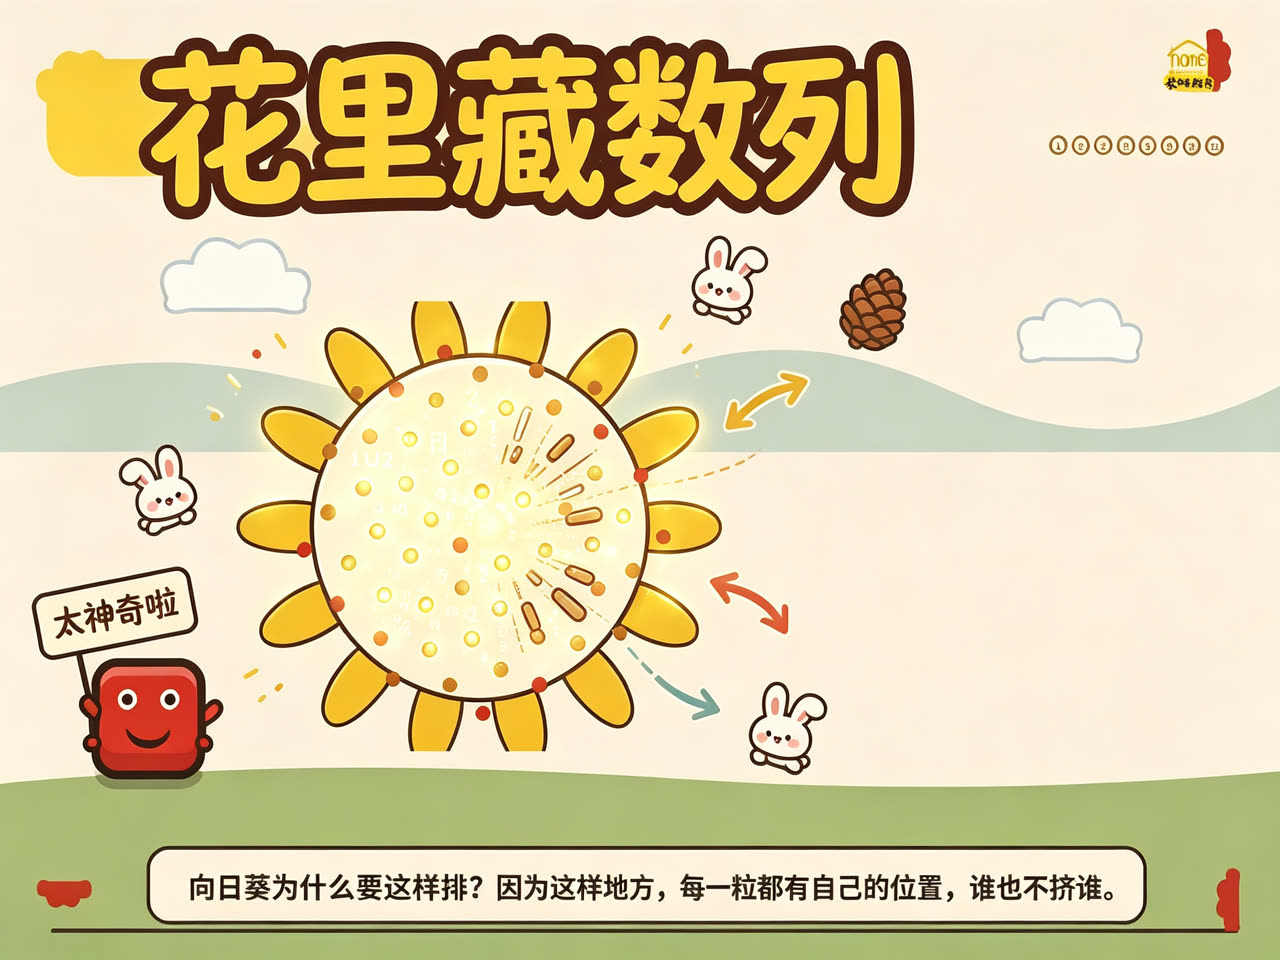
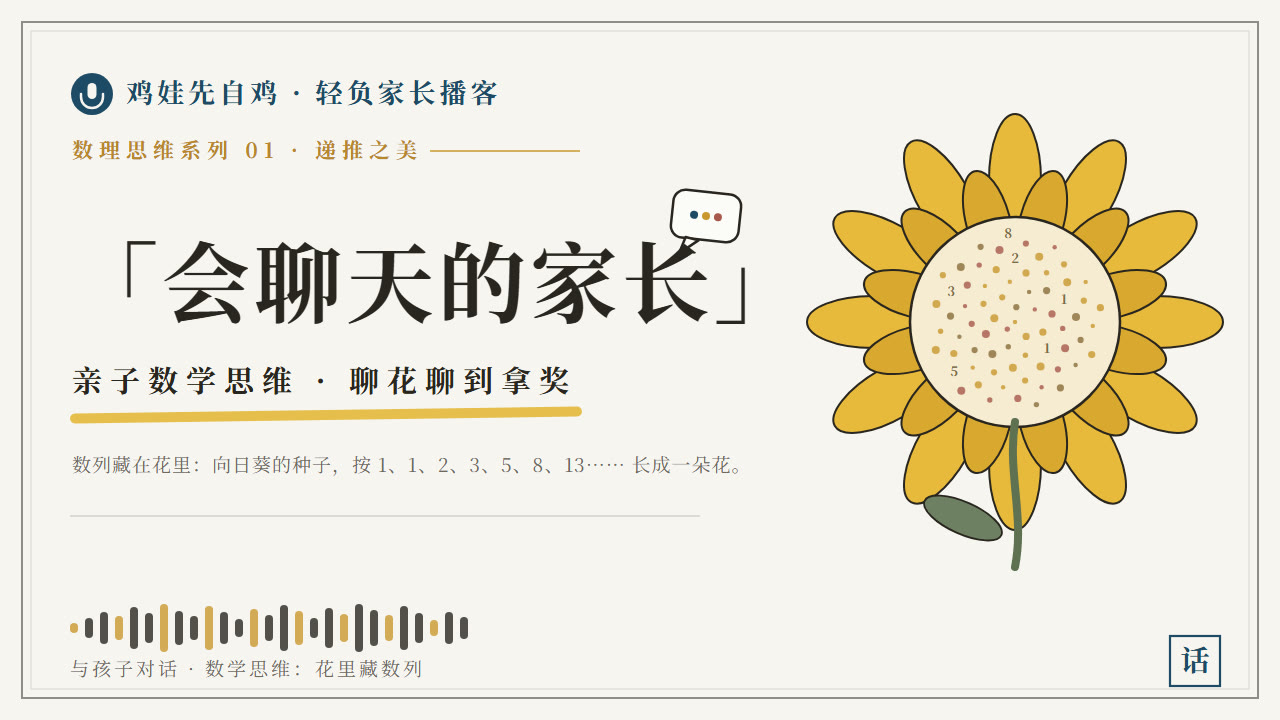
feat(know): 频道整体转向家长播客模式
- 台标换双气泡对话图标（Header + favicon），副标题改'给家长的播客与互动节目'
- 首页/卡片封面换横版家长播客封面（编辑部风：话筒/气泡/向日葵数列/声波/印章），儿童向日葵图只保留为儿童视频 B 站封面
- 详情页 tab 顺序：家长播客 → 互动演示 → 儿童视频，默认激活家长播客；ep01 default_tab=parent-video
- 站点文案全部家长向（标题/描述/资源徽标'家长播客'）

diff --git a/apps/know/src/components/ResourceStage.tsx b/apps/know/src/components/ResourceStage.tsx
@@ -15,19 +15,20 @@ interface TabDef {
 
 /**
  * Tab 生成规则（固定槽位，有资源才有 tab）：
- *   儿童视频 → 互动演示 → 家长视频 → 其余视频（audience 为空的通用视频）
+ *   家长播客 → 互动演示 → 儿童视频 → 其余视频（audience 为空的通用视频）
+ *   （频道面向家长：家长播客永远排第一、默认激活）
  * 未上线的槽位若在 announce 里声明，则渲染禁用 tab + 提示文案。
  */
 export function buildTabs(ep: EpisodeDetail): TabDef[] {
   const tabs: TabDef[] = [];
-  const findVideo = (audience: 'child' | 'parent') =>
+  const findVideo = (audience: 'parent' | 'child') =>
     ep.resources.videos.find((v) => v.audience === audience);
   const announce = ep.announce ?? {};
 
   const slots: { id: string; label: string; kind: TabDef['kind'] }[] = [
-    { id: 'child-video', label: '儿童视频', kind: 'video' },
+    { id: 'parent-video', label: '家长播客', kind: 'video' },
     { id: 'interactive', label: '互动演示', kind: 'interactive' },
-    { id: 'parent-video', label: '家长视频', kind: 'video' },
+    { id: 'child-video', label: '儿童视频', kind: 'video' },
   ];
 
   const usedVideoIds = new Set<string>();
@@ -36,7 +37,7 @@ export function buildTabs(ep: EpisodeDetail): TabDef[] {
       if (ep.resources.interactive) tabs.push({ ...slot });
       continue;
     }
-    const v = findVideo(slot.id === 'child-video' ? 'child' : 'parent');
+    const v = findVideo(slot.id === 'parent-video' ? 'parent' : 'child');
     if (v) {
       usedVideoIds.add(v.id);
       tabs.push({ ...slot, video: v });
@@ -70,7 +71,7 @@ export function pickDefaultTab(ep: EpisodeDetail, tabs: TabDef[]): string {
     const t = tabs.find((x) => x.id === ep.default_tab && !x.disabled);
     if (t) return t.id;
   }
-  for (const id of ['child-video', 'interactive', 'parent-video', 'video']) {
+  for (const id of ['parent-video', 'interactive', 'child-video', 'video']) {
     const t = tabs.find((x) => x.id === id && !x.disabled);
     if (t) return t.id;
   }

diff --git a/apps/know/src/components/ResourceStage.test.tsx b/apps/know/src/components/ResourceStage.test.tsx
@@ -33,7 +33,7 @@ function detail(resources: Partial<EpisodeResources>, extra: Partial<EpisodeDeta
 }
 
 describe('buildTabs', () => {
-  it('槽位顺序：儿童视频 → 互动 → 家长视频，缺资源不出现', () => {
+  it('槽位顺序：家长播客 → 互动 → 儿童视频，缺资源不出现', () => {
     const tabs = buildTabs(
       detail({
         interactive: { title: '互动', url: '/content/x.html', ratio: '16/9' },
@@ -42,7 +42,7 @@ describe('buildTabs', () => {
         ],
       })
     );
-    expect(tabs.map((t) => t.id)).toEqual(['interactive', 'parent-video']);
+    expect(tabs.map((t) => t.id)).toEqual(['parent-video', 'interactive']);
   });
 
   it('announce 为未上线槽位生成禁用 tab', () => {
@@ -71,7 +71,7 @@ describe('buildTabs', () => {
 });
 
 describe('pickDefaultTab', () => {
-  it('默认优先级：儿童视频 > 互动 > 家长视频', () => {
+  it('默认优先级：家长播客 > 互动 > 儿童视频', () => {
     const ep = detail({
       interactive: { title: '互动', url: '/x', ratio: '16/9' },
       videos: [
@@ -79,7 +79,7 @@ describe('pickDefaultTab', () => {
         { id: 'c1', audience: 'child', title: '儿童', embed_url: '//x' },
       ],
     });
-    expect(pickDefaultTab(ep, buildTabs(ep))).toBe('child-video');
+    expect(pickDefaultTab(ep, buildTabs(ep))).toBe('parent-video');
   });
 
   it('default_tab 覆盖默认优先级（仅当该 tab 可用）', () => {

diff --git a/apps/know/src/components/Header.tsx b/apps/know/src/components/Header.tsx
@@ -19,10 +19,18 @@ export default function Header() {
     <header className="site-header">
       <div className="container site-header__inner">
         <Link to="/" className="brand">
-          <span className="brand__seal">话</span>
+          <svg className="brand__icon" viewBox="0 0 48 48" aria-hidden>
+            <rect x="5" y="7" width="30" height="23" rx="9" fill="none" stroke="#29251F" strokeWidth="3"/>
+            <path d="M 12 30 L 9 38 L 20 31 Z" fill="#29251F"/>
+            <rect x="26" y="24" width="17" height="13" rx="6.5" fill="#1E4A66"/>
+            <path d="M 38 37 L 40 42 L 33 37.5 Z" fill="#1E4A66"/>
+            <circle cx="14" cy="18.5" r="2.2" fill="#29251F"/>
+            <circle cx="20" cy="18.5" r="2.2" fill="#29251F"/>
+            <circle cx="26" cy="18.5" r="2.2" fill="#29251F"/>
+          </svg>
           <span>
             <span className="brand__name">与孩子对话</span>
-            <div className="brand__sub">STEM 与亲子共学 · 节目频道</div>
+            <div className="brand__sub">给家长的播客与互动节目</div>
           </span>
         </Link>
 

diff --git a/apps/know/src/components/Badges.tsx b/apps/know/src/components/Badges.tsx
@@ -31,11 +31,11 @@ export function AudienceBadges({ audience, themeColor }: AudienceBadgesProps) {
   );
 }
 
-/** 资源类型提示：互动 / 家长视频 / 儿童视频 / 视频 / 资料 */
+/** 资源类型提示：互动 / 家长播客 / 儿童视频 / 视频 / 资料 */
 export function ResourceBadges({ episode }: { episode: EpisodeSummary }) {
   const items: string[] = [];
   if (episode.has_interactive) items.push('互动');
-  if (episode.video_audiences.includes('parent')) items.push('家长视频');
+  if (episode.video_audiences.includes('parent')) items.push('家长播客');
   if (episode.video_audiences.includes('child')) items.push('儿童视频');
   if (episode.video_audiences.includes('video')) items.push('视频');
   if (episode.has_docs) items.push('资料');

diff --git a/apps/know/index.html b/apps/know/index.html
@@ -3,8 +3,8 @@
   <head>
     <meta charset="UTF-8" />
     <meta name="viewport" content="width=device-width, initial-scale=1.0" />
-    <title>与孩子对话 · STEM 与亲子共学节目频道</title>
-    <meta name="description" content="一次一个话题：互动演示、家长视频、儿童视频，与配套资料。鸡娃先自鸡 × fineSTEM 联合出品。" />
+    <title>与孩子对话 · 给家长的播客与节目频道</title>
+    <meta name="description" content="一期一个话题：家长播客讲清楚，互动演示一起玩，资料拿走就用。鸡娃先自鸡 × fineSTEM 联合出品。" />
     <link rel="icon" type="image/svg+xml" href="/favicon.svg" />
   </head>
   <body>

diff --git a/apps/know/src/index.css b/apps/know/src/index.css
@@ -100,18 +100,11 @@ button {
   flex: none;
 }
 
-/* 方章台标：细线方框 + 宋体字，出版物的克制印记 */
-.brand__seal {
-  width: 34px;
-  height: 34px;
-  border: 1.5px solid var(--ink);
-  display: flex;
-  align-items: center;
-  justify-content: center;
-  font-family: var(--serif);
-  font-size: 18px;
-  font-weight: 700;
-  line-height: 1;
+/* 台标图标：双气泡（与孩子对话） */
+.brand__icon {
+  width: 38px;
+  height: 38px;
+  flex: none;
 }
 
 .brand__name {

diff --git a/apps/know/src/pages/HomePage.tsx b/apps/know/src/pages/HomePage.tsx
@@ -32,7 +32,7 @@ export default function HomePage() {
   }, [params]);
 
   useEffect(() => {
-    document.title = '与孩子对话 · STEM 与亲子共学节目频道';
+    document.title = '与孩子对话 · 给家长的播客与节目频道';
   }, []);
 
   const episodes = useMemo(
